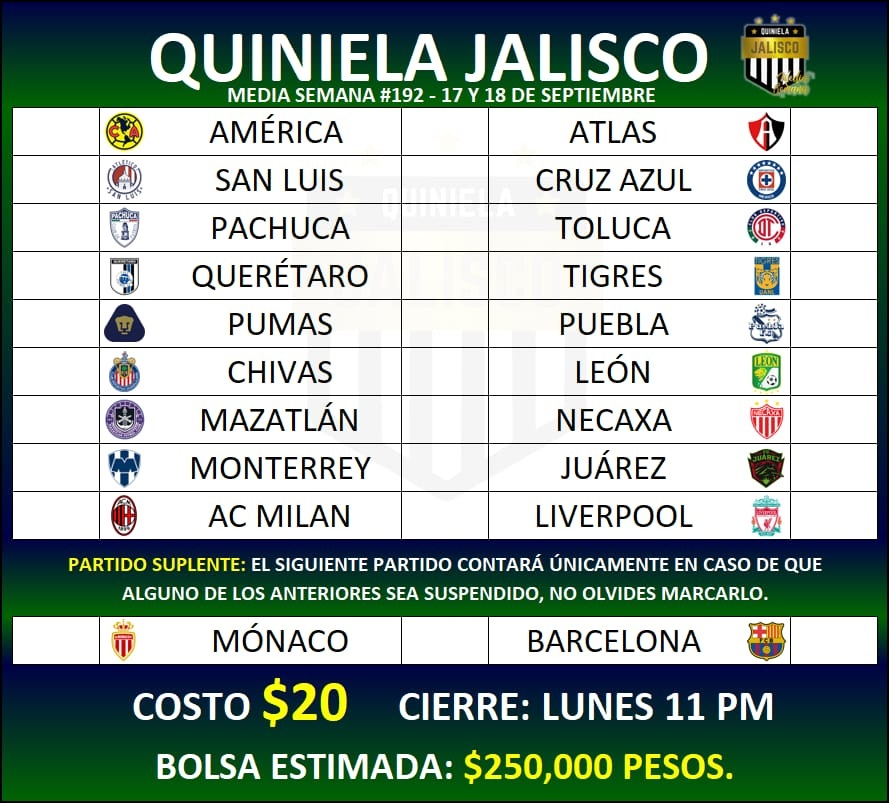
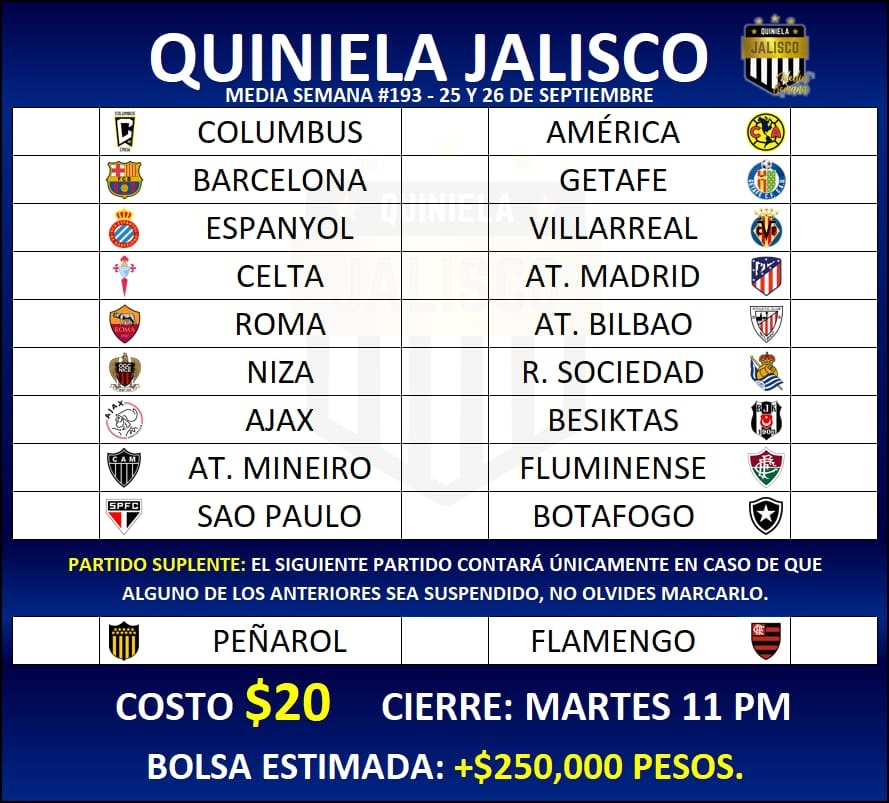
Media Semana #193

diff --git a/MediaSemana/stylesmSusp.css b/MediaSemana/stylesmSusp.css
@@ -94,8 +94,8 @@ body{
     margin-top: 9%;
     border: solid 1px black;
     border-radius: 0 0 14px 14px;
-    background: -webkit-linear-gradient(0.5turn, rgb(0 49 35), rgb(0 13 63) 80%);
-    background: linear-gradient(0.5turn, rgb(0 49 35), rgb(0 13 63) 80%);
+    background: -webkit-linear-gradient(0.5turn, rgb(0, 24, 110), rgb(0 13 63) 80%);
+    background: linear-gradient(0.5turn, rgb(0, 24, 110), rgb(0 13 63) 80%);
 }
 
 .text-lg{
@@ -294,7 +294,7 @@ h6{
 }
 
 #cantidad:before{
-    content:' $250,000 pesos';
+    content:' +$250,000 pesos';
     color: yellow;
     white-space:pre;
 }
